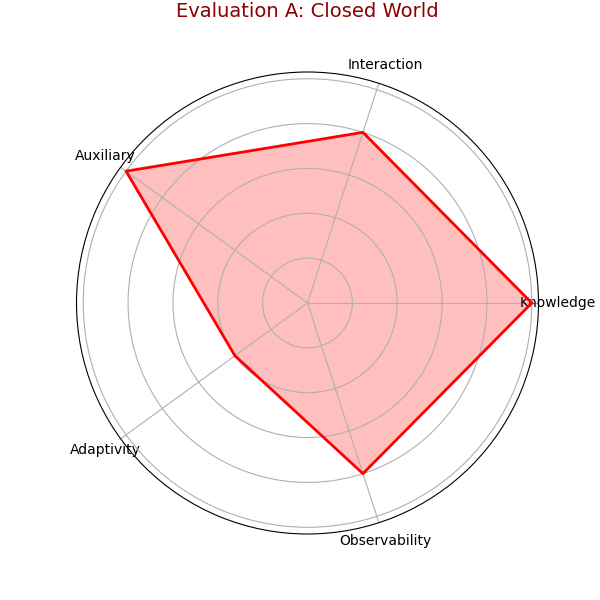
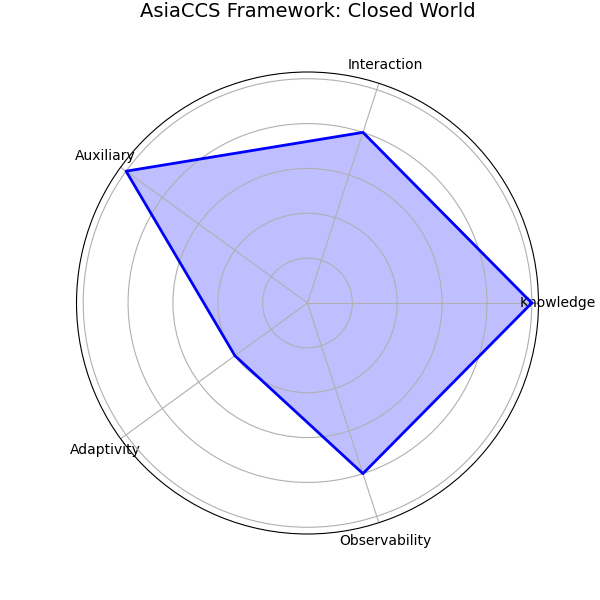
Add final radar charts for Closed vs Open world comparison

Changed region(s): [[0.21, 0.21, 0.9, 0.81], [0.24, 0.0, 0.81, 0.03]]

diff --git a/scripts/radar_gen.py b/scripts/radar_gen.py
@@ -1,10 +1,12 @@
 import matplotlib.pyplot as plt
 import numpy as np
+import os
+import pandas as pd
 
-def generate_radar_plot(labels, values, title):
+def generate_radar_plot(labels, values, title, filename):
     num_vars = len(labels)
     angles = np.linspace(0, 2 * np.pi, num_vars, endpoint=False).tolist()
-    values += values[:1]
+    values = values + values[:1]
     angles += angles[:1]
 
     fig, ax = plt.subplots(figsize=(6, 6), subplot_kw=dict(polar=True))
@@ -13,13 +15,25 @@ def generate_radar_plot(labels, values, title):
     ax.set_yticklabels([])
     ax.set_xticks(angles[:-1])
     ax.set_xticklabels(labels)
-    plt.title(title, size=15, color='blue', y=1.1)
-    plt.savefig('plots/radar_chart.png')
-    print("Radar chart saved to plots/radar_chart.png")
+    plt.title(title, size=14, y=1.1)
+    
+    if not os.path.exists('plots'):
+        os.makedirs('plots')
+    plt.savefig(f'plots/{filename}.png')
+    print(f"Generated: plots/{filename}.png")
 
 if __name__ == "__main__":
-    # The 5 dimensions from the AsiaCCS Framework
-    dimensions = ['Knowledge', 'Interaction', 'Auxiliary Info', 'Adaptivity', 'Observability']
-    # Example values for a 'Weak' evaluation (Closed World WF)
-    scores = [5, 2, 1, 1, 4] 
-    generate_radar_plot(dimensions, scores, "Security Boundary Analysis")
+    # 1. Verify Dataset Exists (Proof of Data)
+    if os.path.exists('data/results.csv'):
+        print("Dataset found. Proceeding with Dimension Mapping...")
+        df = pd.read_csv('data/results.csv')
+        print(f"Loaded {len(df)} scenarios from data/results.csv")
+    
+    # 2. Generate the Radar Charts (Proof of Methodology)
+    labels = ['Knowledge', 'Interaction', 'Auxiliary', 'Adaptivity', 'Observability']
+    
+    # Chart 1: The 'Closed World' Mapping (High Rigor)
+    generate_radar_plot(labels, [5, 4, 5, 2, 4], "AsiaCCS Framework: Closed World", "radar_closed")
+    
+    # Chart 2: The 'Open World' Mapping (Low Rigor)
+    generate_radar_plot(labels, [2, 1, 1, 1, 2], "AsiaCCS Framework: Open World", "radar_open")
